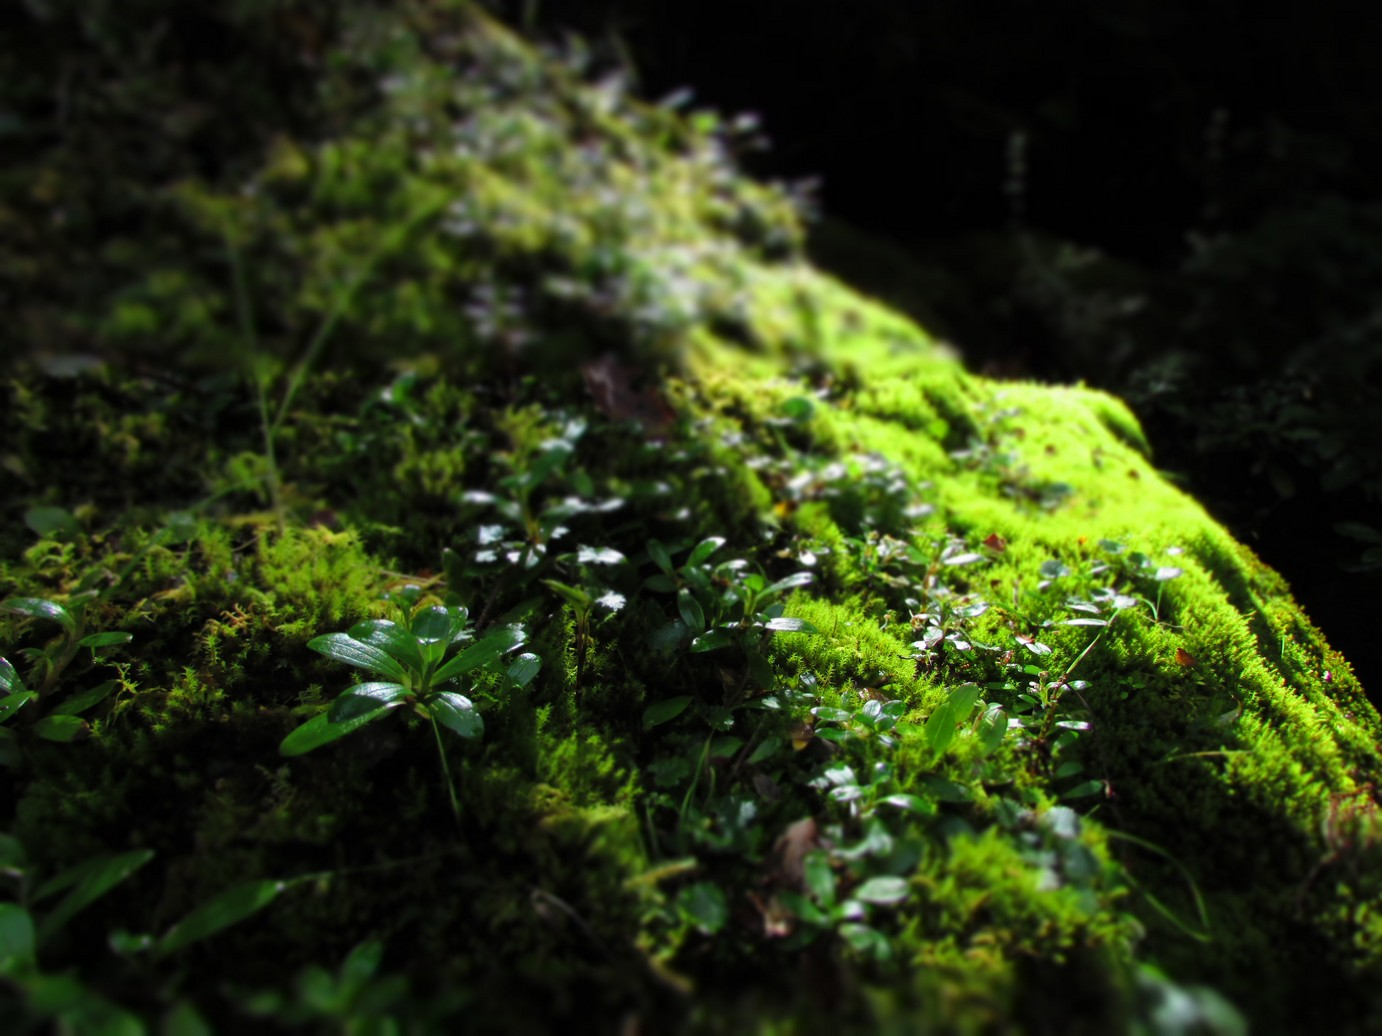
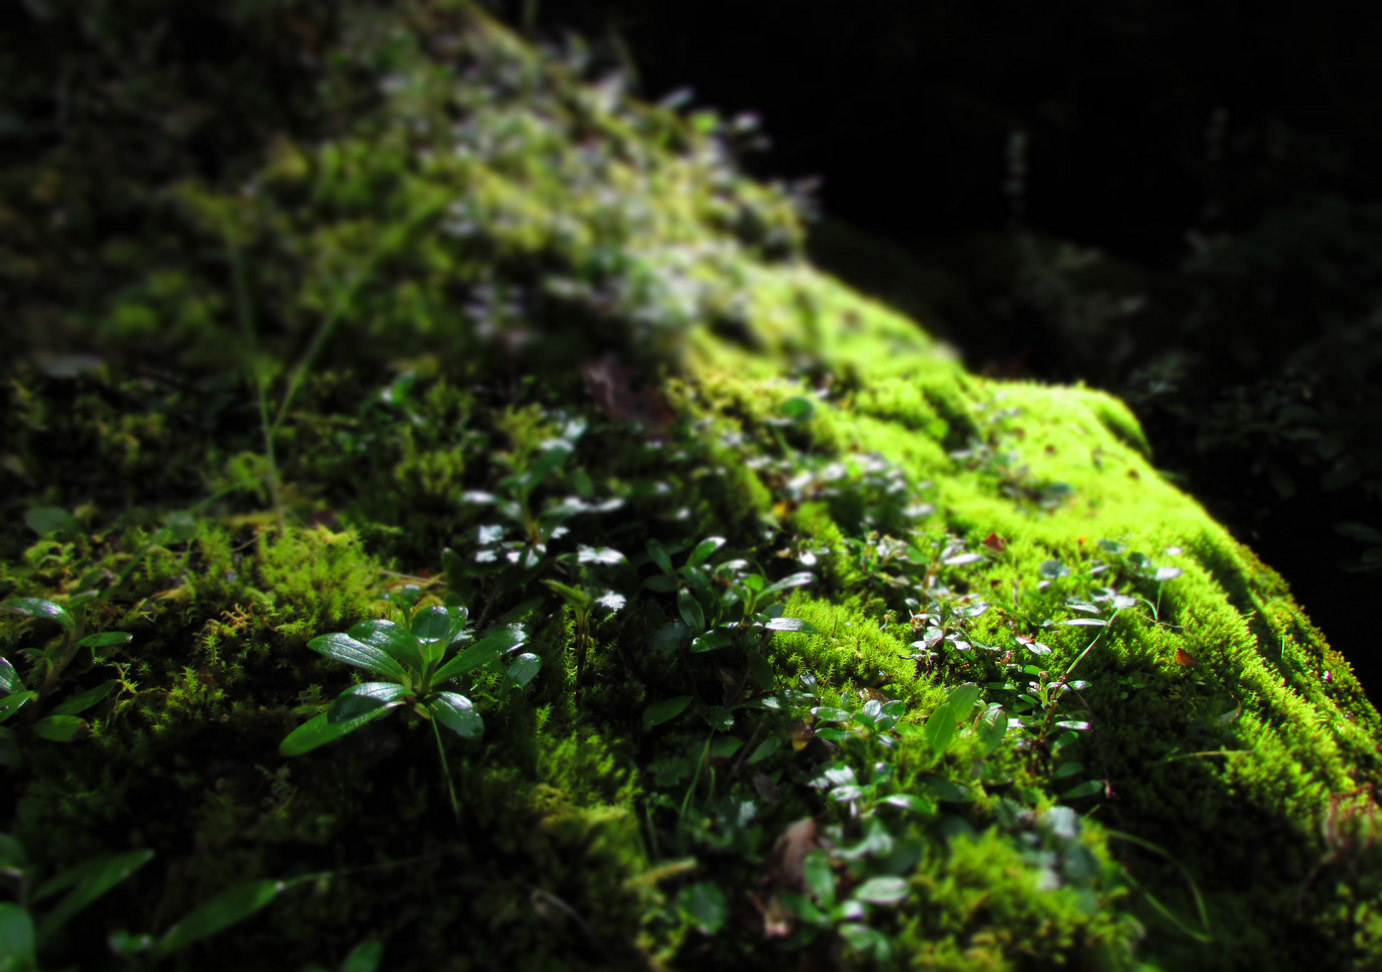
v1
Putting it all together, positioning and startup animations

diff --git a/styles.css b/styles.css
@@ -8,6 +8,7 @@
 
 body {
   background-color: #0a0a0a;
+  position: relative;
 }
 
 
@@ -50,8 +51,16 @@ body {
 #hamburgermenu span:nth-of-type(3) {
   top: 17px;
 }
+#hamburgermenu:not(:hover) span {
+  background-color: rgba(215, 215, 215, 0.65);
+  transition: 0.3s cubic-bezier(0.55, 0.085, 0.68, 0.53);
+}
 #hamburgermenu:hover span {
   background-color: rgba(215, 215, 215, 1);
+  transition: 0.3s cubic-bezier(0.55, 0.085, 0.68, 0.53);
+}
+#hamburgermenu:not(:hover) {
+  background-color: rgba(0, 0, 0, 0.61);
   transition: 0.3s cubic-bezier(0.55, 0.085, 0.68, 0.53);
 }
 #hamburgermenu:hover {
@@ -60,13 +69,84 @@ body {
 }
 
 
+
+#titlecontainer {
+  position: absolute;
+  height: 100vh;
+  width: 70%;
+  left: 0;
+  right: 0;
+  margin: auto;
+}
+
+
+#phototitle {
+  position: absolute;
+  top: 50%;
+  left: 50%;
+  transform: translateX(-50%) translateY(-50%);
+  margin: auto;
+  font-size: 2rem;
+  text-transform: uppercase;
+  letter-spacing: 1rem;
+  font-weight: 500;
+  font-family: calibri;
+  color: #ffffffbb;
+}
+
+#phototitle span {
+  opacity: 0;
+  display: inline-block;
+}
+.flip-in-hor-bottom {
+	-webkit-animation: flip-in-hor-bottom 1.1s cubic-bezier(0.47, 0, 0.745, 0.715) both;
+	        animation: flip-in-hor-bottom 1.1s cubic-bezier(0.47, 0, 0.745, 0.715) both;
+          opacity: 1 !important;
+}
+@-webkit-keyframes flip-in-hor-bottom {
+  0% {
+    -webkit-transform: rotateX(80deg);
+            transform: rotateX(80deg);
+    opacity: 0;
+  }
+  100% {
+    -webkit-transform: rotateX(0);
+            transform: rotateX(0);
+    opacity: 1;
+  }
+}
+@keyframes flip-in-hor-bottom {
+  0% {
+    -webkit-transform: rotateX(80deg);
+            transform: rotateX(80deg);
+    opacity: 0;
+  }
+  100% {
+    -webkit-transform: rotateX(0);
+            transform: rotateX(0);
+    opacity: 1;
+  }
+}
+
+
 /* masonry grid */
 .masonry {
-  width: 33.3%;
+  width: 25%;
   float: left;
+  max-width: 1500px;
 }
-@media screen and (max-width: 500px) {
-	.masonry { width: 50%; }
+
+@media only screen and (max-width: 1000px) {
+	 .masonry {
+    width: 50%;
+    float: left;
+  }
+}
+@media only screen and (max-width: 300px) {
+	 .masonry {
+    width: 100%;
+    float: left;
+  }
 }
 
 .eachimage {
@@ -75,6 +155,7 @@ body {
   display: inline-block;
   float: left;
   overflow: hidden;
+  opacity: 0;
 }
 
 .masonry img {
@@ -83,8 +164,8 @@ body {
   width: 100%;
   height: 100%;
   filter: gray;
-  -webkit-filter: grayscale(1);
-  filter: grayscale(1);
+  -webkit-filter: grayscale(0.95);
+  filter: grayscale(0.95);
   transition: all 0.4s cubic-bezier(0.445, 0.05, 0.55, 0.95);
 }
 
@@ -92,5 +173,34 @@ body {
   filter: none;
   -webkit-filter: grayscale(0);
   filter: grayscale(0);
-  transform: scale(1.05);
+  transform: scale(1.02);
+}
+
+.fade-in-left {
+	-webkit-animation: fade-in-left 0.9s cubic-bezier(0.47, 0, 0.745, 0.715) both;
+	        animation: fade-in-left 0.9s cubic-bezier(0.47, 0, 0.745, 0.715) both;
+}
+@-webkit-keyframes fade-in-left {
+  0% {
+    -webkit-transform: translateX(-5px);
+            transform: translateX(-5px);
+    opacity: 0;
+  }
+  100% {
+    -webkit-transform: translateX(0);
+            transform: translateX(0);
+    opacity: 1;
+  }
+}
+@keyframes fade-in-left {
+  0% {
+    -webkit-transform: translateX(-5px);
+            transform: translateX(-5px);
+    opacity: 0;
+  }
+  100% {
+    -webkit-transform: translateX(0);
+            transform: translateX(0);
+    opacity: 1;
+  }
 }

diff --git a/designs.js b/designs.js
@@ -1,0 +1,75 @@
+
+
+
+/* function flipintitle() {
+  setTimeout(function() {$("#phototitle span:nth-of-type(1)").addClass("flip-in-hor-bottom")}, 200);
+  setTimeout(function() {$("#phototitle span:nth-of-type(2)").addClass("flip-in-hor-bottom")}, 400);
+  setTimeout(function() {$("#phototitle span:nth-of-type(3)").addClass("flip-in-hor-bottom")}, 600);
+  setTimeout(function() {$("#phototitle span:nth-of-type(4)").addClass("flip-in-hor-bottom")}, 800);
+  setTimeout(function() {$("#phototitle span:nth-of-type(5)").addClass("flip-in-hor-bottom")}, 1000);
+  setTimeout(function() {$("#phototitle span:nth-of-type(6)").addClass("flip-in-hor-bottom")}, 1200);
+  setTimeout(function() {$("#phototitle span:nth-of-type(7)").addClass("flip-in-hor-bottom")}, 1400);
+  setTimeout(function() {$("#phototitle span:nth-of-type(8)").addClass("flip-in-hor-bottom")}, 1600);
+  setTimeout(function() {$("#phototitle span:nth-of-type(9)").addClass("flip-in-hor-bottom")}, 1800);
+}
+*/
+
+function flipincol1() {
+  setTimeout(function() {$("#col1 .eachimage:nth-of-type(1)").addClass("fade-in-left")}, 200);
+  setTimeout(function() {$("#col1 .eachimage:nth-of-type(2)").addClass("fade-in-left")}, 800);
+  setTimeout(function() {$("#col1 .eachimage:nth-of-type(3)").addClass("fade-in-left")}, 1400);
+  setTimeout(function() {$("#col1 .eachimage:nth-of-type(4)").addClass("fade-in-left")}, 2000);
+}
+function flipincol2() {
+  setTimeout(function() {$("#col2 .eachimage:nth-of-type(1)").addClass("fade-in-left")}, 200);
+  setTimeout(function() {$("#col2 .eachimage:nth-of-type(2)").addClass("fade-in-left")}, 800);
+  setTimeout(function() {$("#col2 .eachimage:nth-of-type(3)").addClass("fade-in-left")}, 1400);
+  setTimeout(function() {$("#col2 .eachimage:nth-of-type(4)").addClass("fade-in-left")}, 2000);
+}
+function flipincol3() {
+  setTimeout(function() {$("#col3 .eachimage:nth-of-type(1)").addClass("fade-in-left")}, 200);
+  setTimeout(function() {$("#col3 .eachimage:nth-of-type(2)").addClass("fade-in-left")}, 800);
+  setTimeout(function() {$("#col3 .eachimage:nth-of-type(3)").addClass("fade-in-left")}, 1400);
+  setTimeout(function() {$("#col3 .eachimage:nth-of-type(4)").addClass("fade-in-left")}, 2000);
+}
+function flipincol4() {
+  setTimeout(function() {$("#col4 .eachimage:nth-of-type(1)").addClass("fade-in-left")}, 200);
+  setTimeout(function() {$("#col4 .eachimage:nth-of-type(2)").addClass("fade-in-left")}, 800);
+  setTimeout(function() {$("#col4 .eachimage:nth-of-type(3)").addClass("fade-in-left")}, 1400);
+  setTimeout(function() {$("#col4 .eachimage:nth-of-type(4)").addClass("fade-in-left")}, 2000);
+}
+
+
+function startanimations() {
+  //setTimeout(flipintitle, 100);
+  setTimeout(flipincol1, 1600);
+  setTimeout(flipincol2, 2400);
+  setTimeout(flipincol3, 3200);
+  setTimeout(flipincol4, 3800);
+}
+
+
+
+
+/* playing around with loops */
+
+var children = $("#phototitle span");
+
+for (var i = 0; i <= children.length; i++) {
+  var x = children[i]
+  $("#phototitle span:nth-of-type(" + i + ")").addClass("flip-in-hor-bottom");
+  console.log(x);
+}
+
+
+//$("#phototitle div").addClass("flip-in-hor-bottom");
+
+
+
+
+
+
+
+
+
+//

diff --git a/index.html b/index.html
@@ -5,10 +5,12 @@
 <head>
 <title>Photoblog</title>
 <link rel="stylesheet" type="text/css" href="styles.css">
+<script src="https://ajax.googleapis.com/ajax/libs/jquery/3.3.1/jquery.min.js"></script>
+<meta name="viewport" content="width=device-width" />
 </head>
 
 
-<body>
+<body onload="startanimations()">
 
 <div id="hamburgermenu">
   <div id="innermenu">
@@ -18,24 +20,34 @@
   </div>
 </div>
 
-<div class="masonry">
+<div id="titlecontainer">
+<div id="phototitle"><span>p</span><span>h</span><span>o</span><span>t</span><span>o</span><span>b</span><span>l</span><span>o</span><span>g</span></div>
+</div>
+
+<div id="col1" class="masonry">
 <div class="eachimage"><img src="image00001.jpg" alt=""></div>
 <div class="eachimage"><img src="image00002.jpg" alt=""></div>
 <div class="eachimage"><img src="image00003.jpg" alt=""></div>
+<div class="eachimage"><img src="image00013.jpg" alt=""></div>
 </div>
-<div class="masonry">
+<div id="col2" class="masonry">
 <div class="eachimage"><img src="image00004.jpg" alt=""></div>
 <div class="eachimage"><img src="image00005.jpg" alt=""></div>
 <div class="eachimage"><img src="image00006.jpg" alt=""></div>
 </div>
-<div class="masonry">
+<div id="col3" class="masonry">
 <div class="eachimage"><img src="image00007.jpg" alt=""></div>
 <div class="eachimage"><img src="image00008.jpg" alt=""></div>
+<div class="eachimage"><img src="image00012.jpg" alt=""></div>
+</div>
+<div id="col4" class="masonry">
+<div class="eachimage"><img src="image00010.jpg" alt=""></div>
+<div class="eachimage"><img src="image00011.jpg" alt=""></div>
 <div class="eachimage"><img src="image00009.jpg" alt=""></div>
 </div>
 
 
-
+<script src="designs.js"></script>
 
 </body>
 
